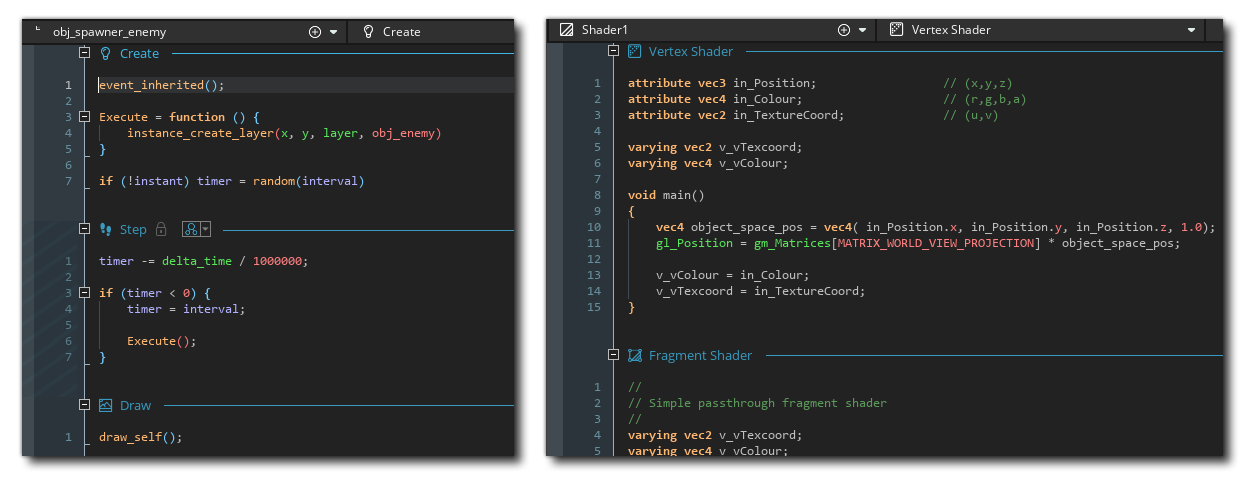
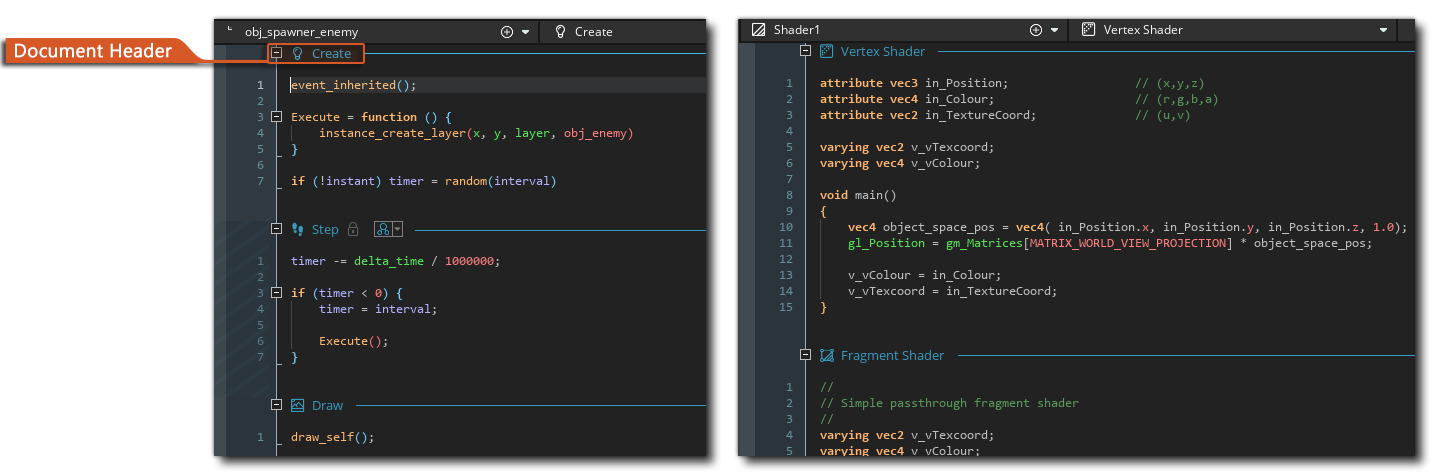
docs(feature): Finish screenshots on Editing Code page

diff --git a/Manual/contents/The_Asset_Editors/Code_Editor_Properties/Editing_Text.htm b/Manual/contents/The_Asset_Editors/Code_Editor_Properties/Editing_Text.htm
@@ -26,14 +26,13 @@
     </ol>
   </div>
   <h2>Editing GML</h2>
-  <p>The <span data-keyref="Code_Editor2_Name">Code Editor</span> will display either <a href="../../GameMaker_Language.htm">GML</a> Code or GML Visual depending on the type of event or script that is open.</p>
-  <p data-condition="Misc:Need_change">IMAGE - GML Code and GML Visual, with button to switch</p>
-  <p>You can change the type of event/script from the bottom-right corner of the Editor Frame (where it says &quot;<strong>GML</strong>&quot; or &quot;<strong>GML Visual</strong>&quot;).</p>
+  <p>For GML documents, the <span data-keyref="Code_Editor2_Name">Code Editor</span> will display either <a href="../../GameMaker_Language.htm">GML</a> Code or GML Visual depending on the type of the document.</p>
+  <p><img class="center" src="../../assets/Images/The_IDE/Code Editor/EditingCode_CodeNVis.png" />The right-most button in the <a data-xref="{text}" href="../The_Text_Editor.htm#h4">Horizontal Scrollbar</a> allows you to switch between GML Code and Visual.</p>
   <p>The rest of this document will cover editing text-based documents, i.e. anything that is not GML Visual.</p>
   <p>For GML code completion features, see: <a data-xref="{title}" href="Feather_Features.htm">Code Completion</a></p>
-  <h2>Document Headers</h2>
+  <h2>Documents &amp; Headers</h2>
   <p>By default, the editor will display all documents for the current asset at the same time, one after another. This can be disabled in the <a data-xref="{title}" href="../../Setting_Up_And_Version_Information/IDE_Preferences/Text_Editor_2_Preferences.htm">Code Editor Preferences</a>.</p>
-  <p>For example, all events for an Object or both Shader files are displayed within the same editor:</p>
+  <p>For example, all events for an <a href="../Objects.htm">Object</a> or both <a href="../Shaders.htm">Shader</a> files are displayed within the same editor:</p>
   <p><img class="center" src="../../assets/Images/The_IDE/Code Editor/EditingCode_DocumentView.png" />Each document begins with a &quot;header&quot;, e.g. where it says &quot;<strong>Create</strong>&quot; before the contents of the Create event above, or &quot;<strong>Vertex Shader</strong>&quot; in the Shader asset. You can press  <img class="icon" src="../../assets/Images/Icons/Icon_Fold.png" />  next to it in the gutter (on the left hand side) to collapse that document.</p>
   <p>When scrolling down into a document, its header will stick to the top so you can see the name of the document. This can be disabled from the Preferences.</p>
   <p>You can also enable sticky Statement Headers, so the initial lines for foldable regions stick to the top while they&#39;re visible.</p>
@@ -251,8 +250,7 @@
   </ul>
   <p>You can change these colours in the <a data-xref="{title}" href="../../Setting_Up_And_Version_Information/IDE_Preferences/Feather_Settings.htm">Feather</a> settings. Read more about errors on <a data-xref="{title}" href="../../Additional_Information/Errors/Syntax_Errors.htm">Syntax Errors (Feather Messages)</a>.</p>
   <h3>Text Highlighting</h3>
-  <p data-condition="Misc:Need_change">IMAGE - Everything listed below, highlighted</p>
-  <p>The <span data-keyref="Code_Editor2_Name">Code Editor</span> will highlight parts of your text:</p>
+  <p><img class="center" src="../../assets/Images/The_IDE/Code Editor/EditingCode_Highlighting.png" />The <span data-keyref="Code_Editor2_Name">Code Editor</span> will highlight parts of your text:</p>
   <ul class="colour">
     <li>All supported <a href="JSDoc_Script_Comments.htm">JSDoc identifiers</a> (e.g. <span class="inline2">@desc</span>, <span class="inline2">@param</span>, <span class="inline2">@url</span>, etc.)</li>
     <li>Hyperlinks in comments and strings</li>
@@ -266,21 +264,17 @@
     <li>The other end of a bracket pair (<span class="inline2">[]</span>, <span class="inline2">{}</span>, <span class="inline2">()</span>, or <span class="inline2">begin...end</span>) is highlighted</li>
     <li>If the text cursor is on a <span class="inline2">break</span> or a <span class="inline2">continue</span>, the parent loop or statement (<span class="inline2">for</span>, <span class="inline2">while</span> or <span class="inline2">case</span>) is highlighted</li>
   </ul>
-  <h3>Guides</h3>
-  <p data-condition="Misc:Need_change">IMAGE - Indentation and whitespace guides</p>
-  <p>Vertical lines appear for tabs or Tab Size number of spaces (from the <a data-xref="{title}" href="../../Setting_Up_And_Version_Information/IDE_Preferences/Text_Editor_2_Preferences.htm">Code Editor Preferences</a>), which can be disabled in the preferences.</p>
-  <p>Whitespace guides can also be enabled, which will render whitespace characters as dots and tab characters as horizontal lines.</p>
+  <h3 id="h3">Guides</h3>
+  <p><img class="center" src="../../assets/Images/The_IDE/Code Editor/EditingCode_Guides.png" />Indentation guides are enabled by default, and appear as vertical lines, which can be disabled from the <a href="../../Setting_Up_And_Version_Information/IDE_Preferences/Text_Editor_2_Preferences.htm">preferences</a>.</p>
+  <p>Whitespace guides can also be enabled, which will render spaces as dots and tab characters as horizontal lines.</p>
   <h3 id="h">Rainbow Brackets</h3>
-  <p>You can enable Rainbow Brackets from the <a href="../../Setting_Up_And_Version_Information/IDE_Preferences/Text_Editor_2_Preferences.htm">preferences</a>, which colours each pair of brackets (<span class="inline2">{}</span>, <span class="inline2">()</span>, <span class="inline2">[]</span>, <span class="inline2">[? ]</span>, <span class="inline2">[| ]</span>, <span class="inline2">begin</span>, <span class="inline2">end</span>, etc.) with the same colour, making it easier to identify where a block begins and ends.</p>
-  <p data-condition="Misc:Need_change">IMAGE - Show rainbow brackets</p>
-  <p>You can change these colours in a <a data-xref="{text}" href="../../Setting_Up_And_Version_Information/IDE_Preferences/Text_Editor_2_Preferences.htm#h">Theme</a>.</p>
+  <p>Rainbow Brackets are <a href="../../Setting_Up_And_Version_Information/IDE_Preferences/Text_Editor_2_Preferences.htm">enabled by default</a>. This colours each pair of brackets at a level (<span class="inline2">{}</span>, <span class="inline2">()</span>, <span class="inline2">[]</span>, <span class="inline2">[? ]</span>, <span class="inline2">[| ]</span>, <span class="inline2">begin</span>, <span class="inline2">end</span>, etc.) with the same colour, making it easier to identify where a block begins and ends.</p>
+  <p><img class="center" src="../../assets/Images/The_IDE/Code Editor/EditingCode_RainbowBrackets.png" />You can change these colours in a <a data-xref="{text}" href="../../Setting_Up_And_Version_Information/IDE_Preferences/Text_Editor_2_Preferences.htm#h">Theme</a> and also define colours for deeper levels.</p>
   <h3>Tooltips</h3>
-  <p>Tooltips appear when hovering over part of your code that is either highlighted by diagnostics, or is a keyword that has documentation (for custom functions, JSDoc information is shown).</p>
-  <p data-condition="Misc:Need_change">IMAGE - Show tooltips</p>
-  <p>For more features that assist with code writing, see <a data-xref="{title}" href="Feather_Features.htm">Code Completion</a>.</p>
+  <p>Tooltips appear when hovering over part of your code that is either highlighted by diagnostics, or is a keyword that has documentation (for custom functions, <a href="JSDoc_Script_Comments.htm">JSDoc</a> information is shown).</p>
+  <p><img class="center" src="../../assets/Images/The_IDE/Code Editor/EditingCode_Tooltip.png" />For more features that assist with code writing, see <a data-xref="{title}" href="Feather_Features.htm">Code Completion</a>.</p>
   <h3>International Support (RTL)</h3>
-  <p>The Text Editor supports right-to-left text and ligatures.</p>
-  <p data-condition="Misc:Need_change">IMAGE - example</p>
+  <p>The <span data-keyref="Code_Editor2_Name">Code Editor</span> supports right-to-left text.</p>
   <p>Fonts that make use of ligatures for special characters (such as combined <span class="inline2">&lt;=</span> or <span class="inline2">!=</span> operators) are supported as well (like <a href="https://www.jetbrains.com/lp/mono/">JetBrains Mono</a>).</p>
   <h2>Further Reading</h2>
   <p>See: <a data-xref="{title}" href="Feather_Features.htm">Code Completion</a></p>

diff --git a/Manual/contents/Setting_Up_And_Version_Information/IDE_Preferences/Text_Editor_2_Preferences.htm b/Manual/contents/Setting_Up_And_Version_Information/IDE_Preferences/Text_Editor_2_Preferences.htm
@@ -66,8 +66,8 @@
       </ul>
     </li>
     <li><strong>Detect tab type</strong>: Enable this to use whichever tab type the currently open document is using, overriding the tab type set in the previous option. This is useful for ensuring consistency within a document, regardless of overall project-level consistency. (Default: Enabled)</li>
-    <li><strong>Show Indent Guide</strong>: Display vertical indentation lines. (Default: Enabled)</li>
-    <li><strong>Show whitespace</strong>: Display whitespace guides (dots). (Default: Disabled)</li>
+    <li><strong>Show Indent Guide</strong>: Display vertical indentation lines. See: <a data-xref="{text}" href="../../The_Asset_Editors/Code_Editor_Properties/Editing_Text.htm#h3">Guides</a>. (Default: Enabled)</li>
+    <li><strong>Show whitespace</strong>: Display whitespace guides (dots). See: <a data-xref="{text}" href="../../The_Asset_Editors/Code_Editor_Properties/Editing_Text.htm#h3">Guides</a>. (Default: Disabled)</li>
     <li><strong>Show Rainbow Brackets</strong>: Enable <a data-xref="{text}" href="../../The_Asset_Editors/Code_Editor_Properties/Editing_Text.htm#h">Rainbow Brackets</a>. Colours can be modified in the Theme section. (Default: Enabled)</li>
     <li><strong>Highlight the line that the caret is on</strong>: Whether the line where the text cursor is placed should be highlighted. (Default: Enabled)</li>
     <li><strong>Highlight selection matches</strong>: Whether occurrences of the selected text within the same document should be highlighted.</li>

diff --git a/Manual/contents/The_Asset_Editors/The_Text_Editor.htm b/Manual/contents/The_Asset_Editors/The_Text_Editor.htm
@@ -105,7 +105,7 @@
   <p>Hovering over a part of the minimap will temporarily display the code at that position, as seen on the left in the image above. The preview will continue to be displayed until your mouse cursor leaves the minimap area.</p>
   <p>You can enable the &quot;<strong>Show diagnostics on scrollbar</strong>&quot; <a href="../Setting_Up_And_Version_Information/IDE_Preferences/Text_Editor_2_Preferences.htm">preference</a> to display diagnostics (i.e. errors, warnings and suggestions) as small lines on the scrollbar:</p>
   <p><img class="center" src="../assets/Images/The_IDE/Code Editor/Vertical_Scrollbar_Diagnostics.png" />The scrollbar also allows overscroll, so that the end of the document can be edited at a higher vertical level on the screen. This can be enabled from the <a href="../Setting_Up_And_Version_Information/IDE_Preferences/Text_Editor_2_Preferences.htm">preferences</a>.</p>
-  <h2>Horizontal Scrollbar</h2>
+  <h2 id="h4">Horizontal Scrollbar</h2>
   <p><img class="center" src="../assets/Images/The_IDE/Code Editor/CE_HorBar.png" /></p>
   <p>The horizontal scrollbar appears at the bottom of the frame, to scroll left or right. This has the following parts:</p>
   <ul class="colour">
